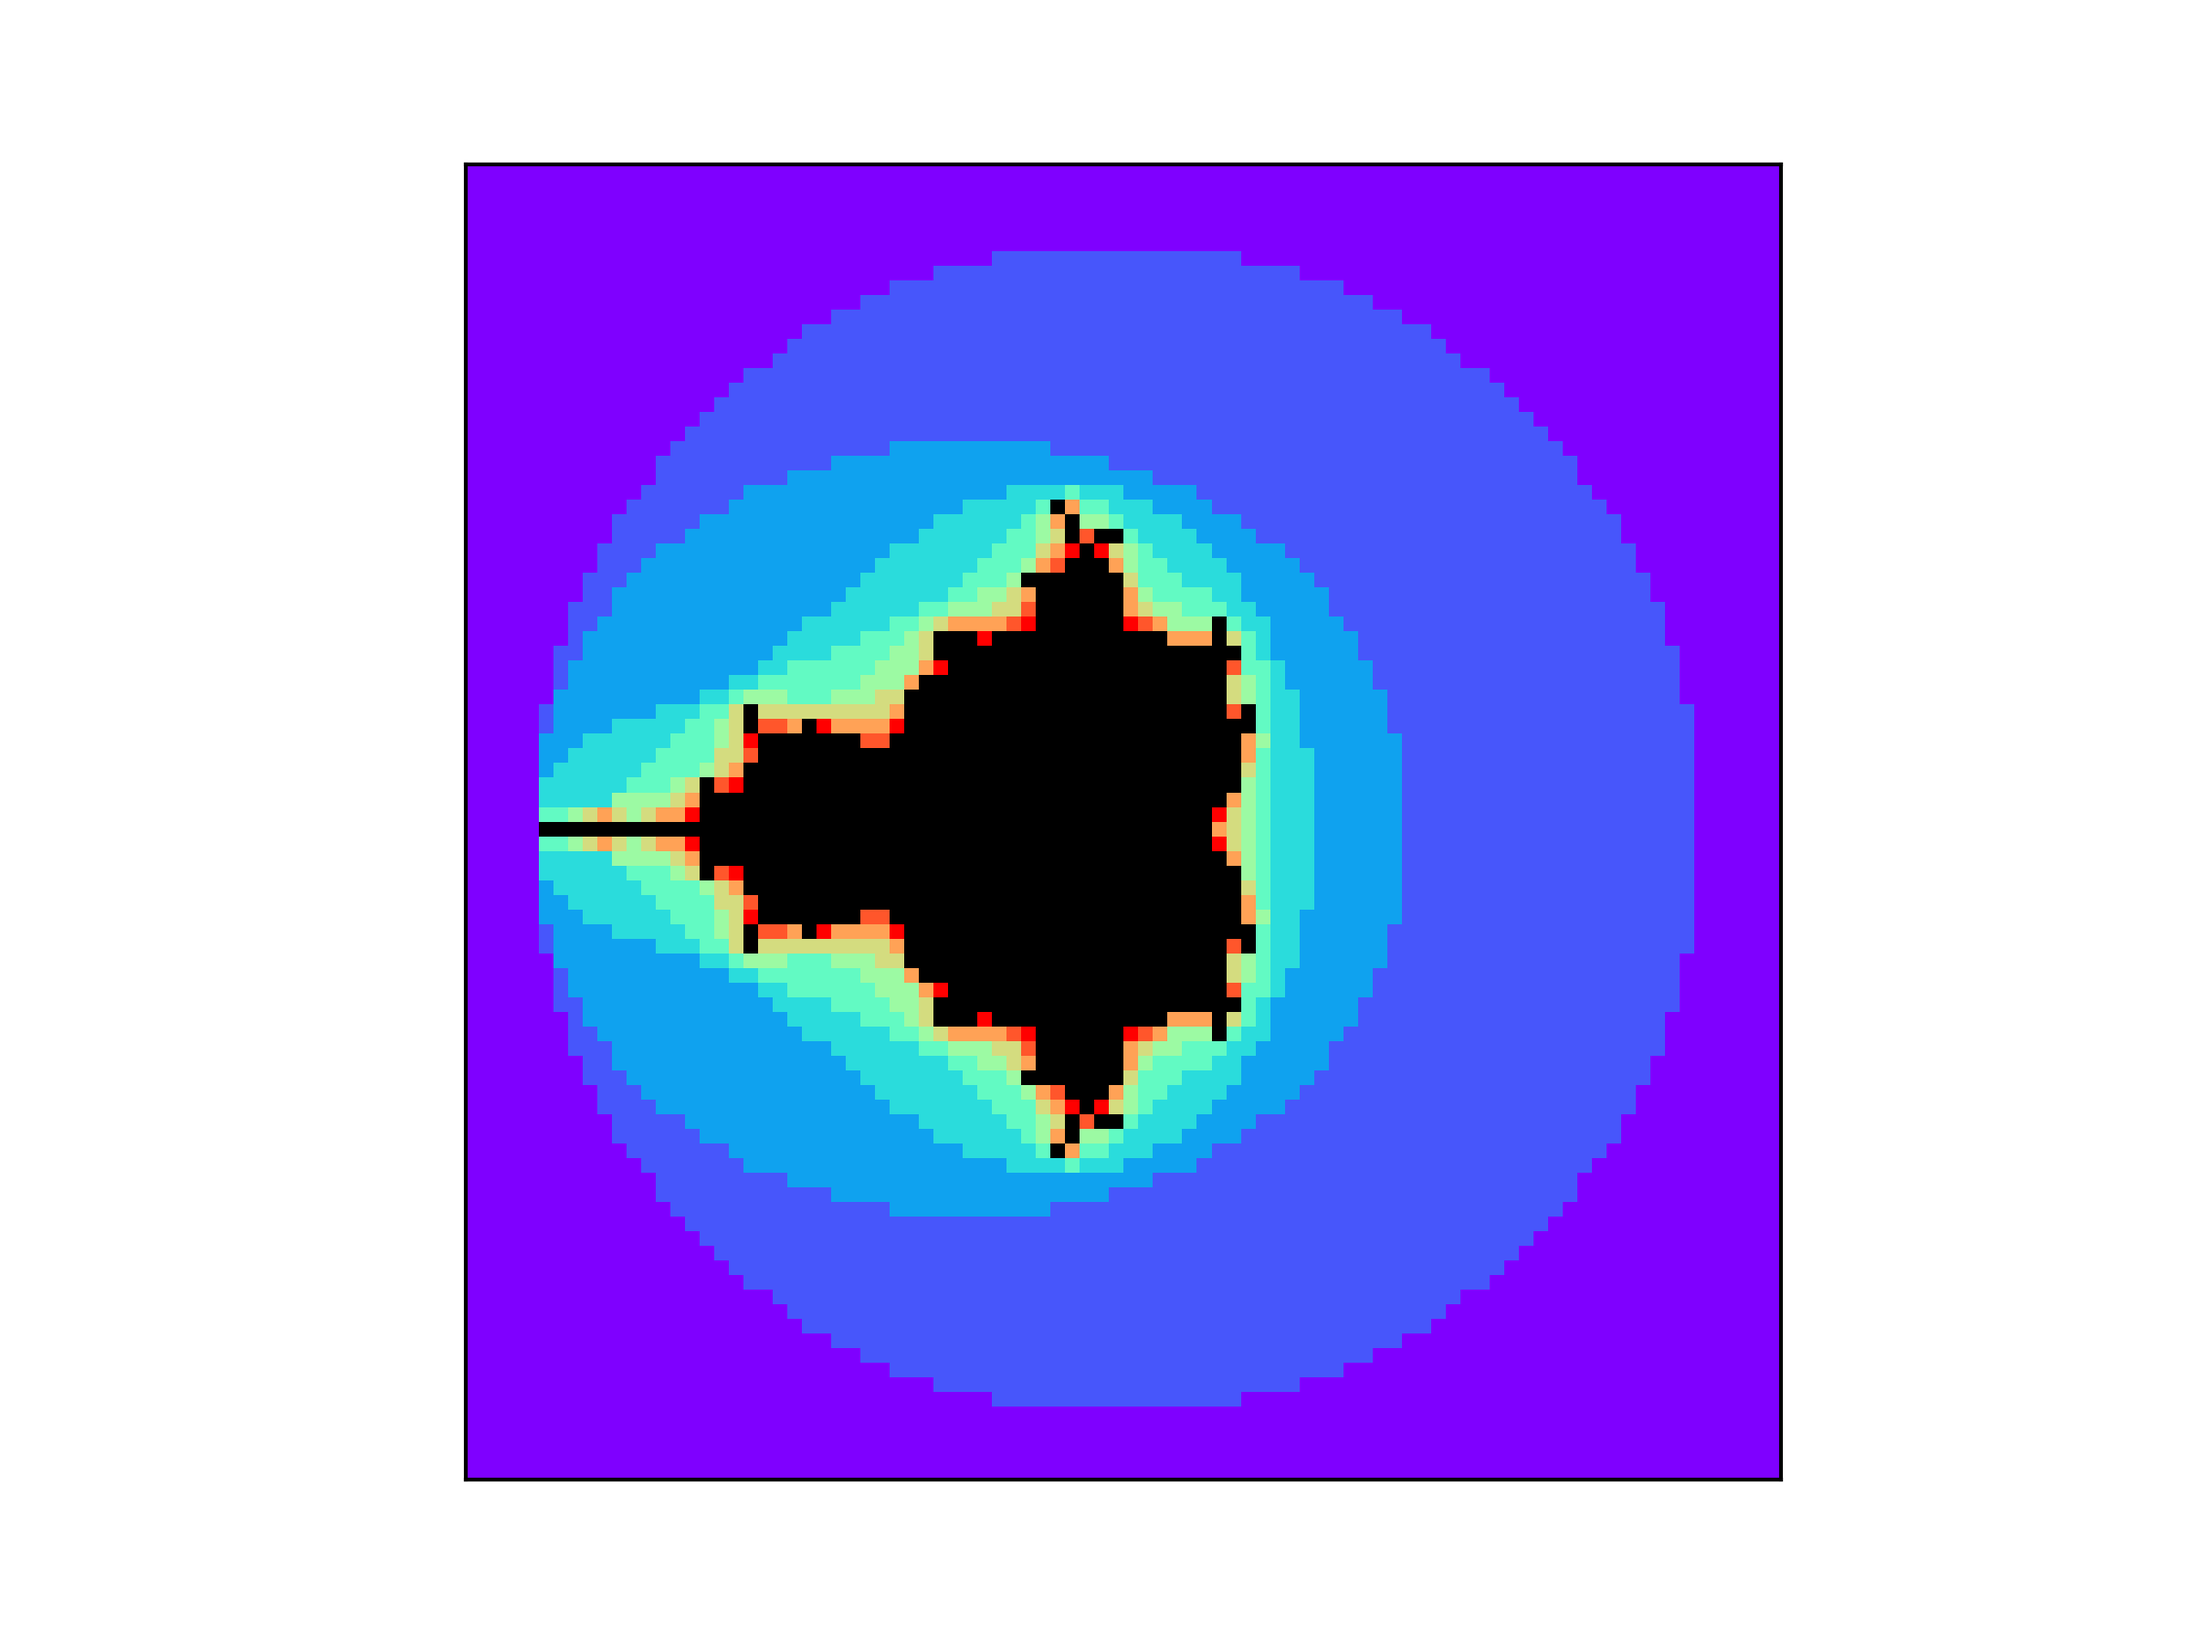
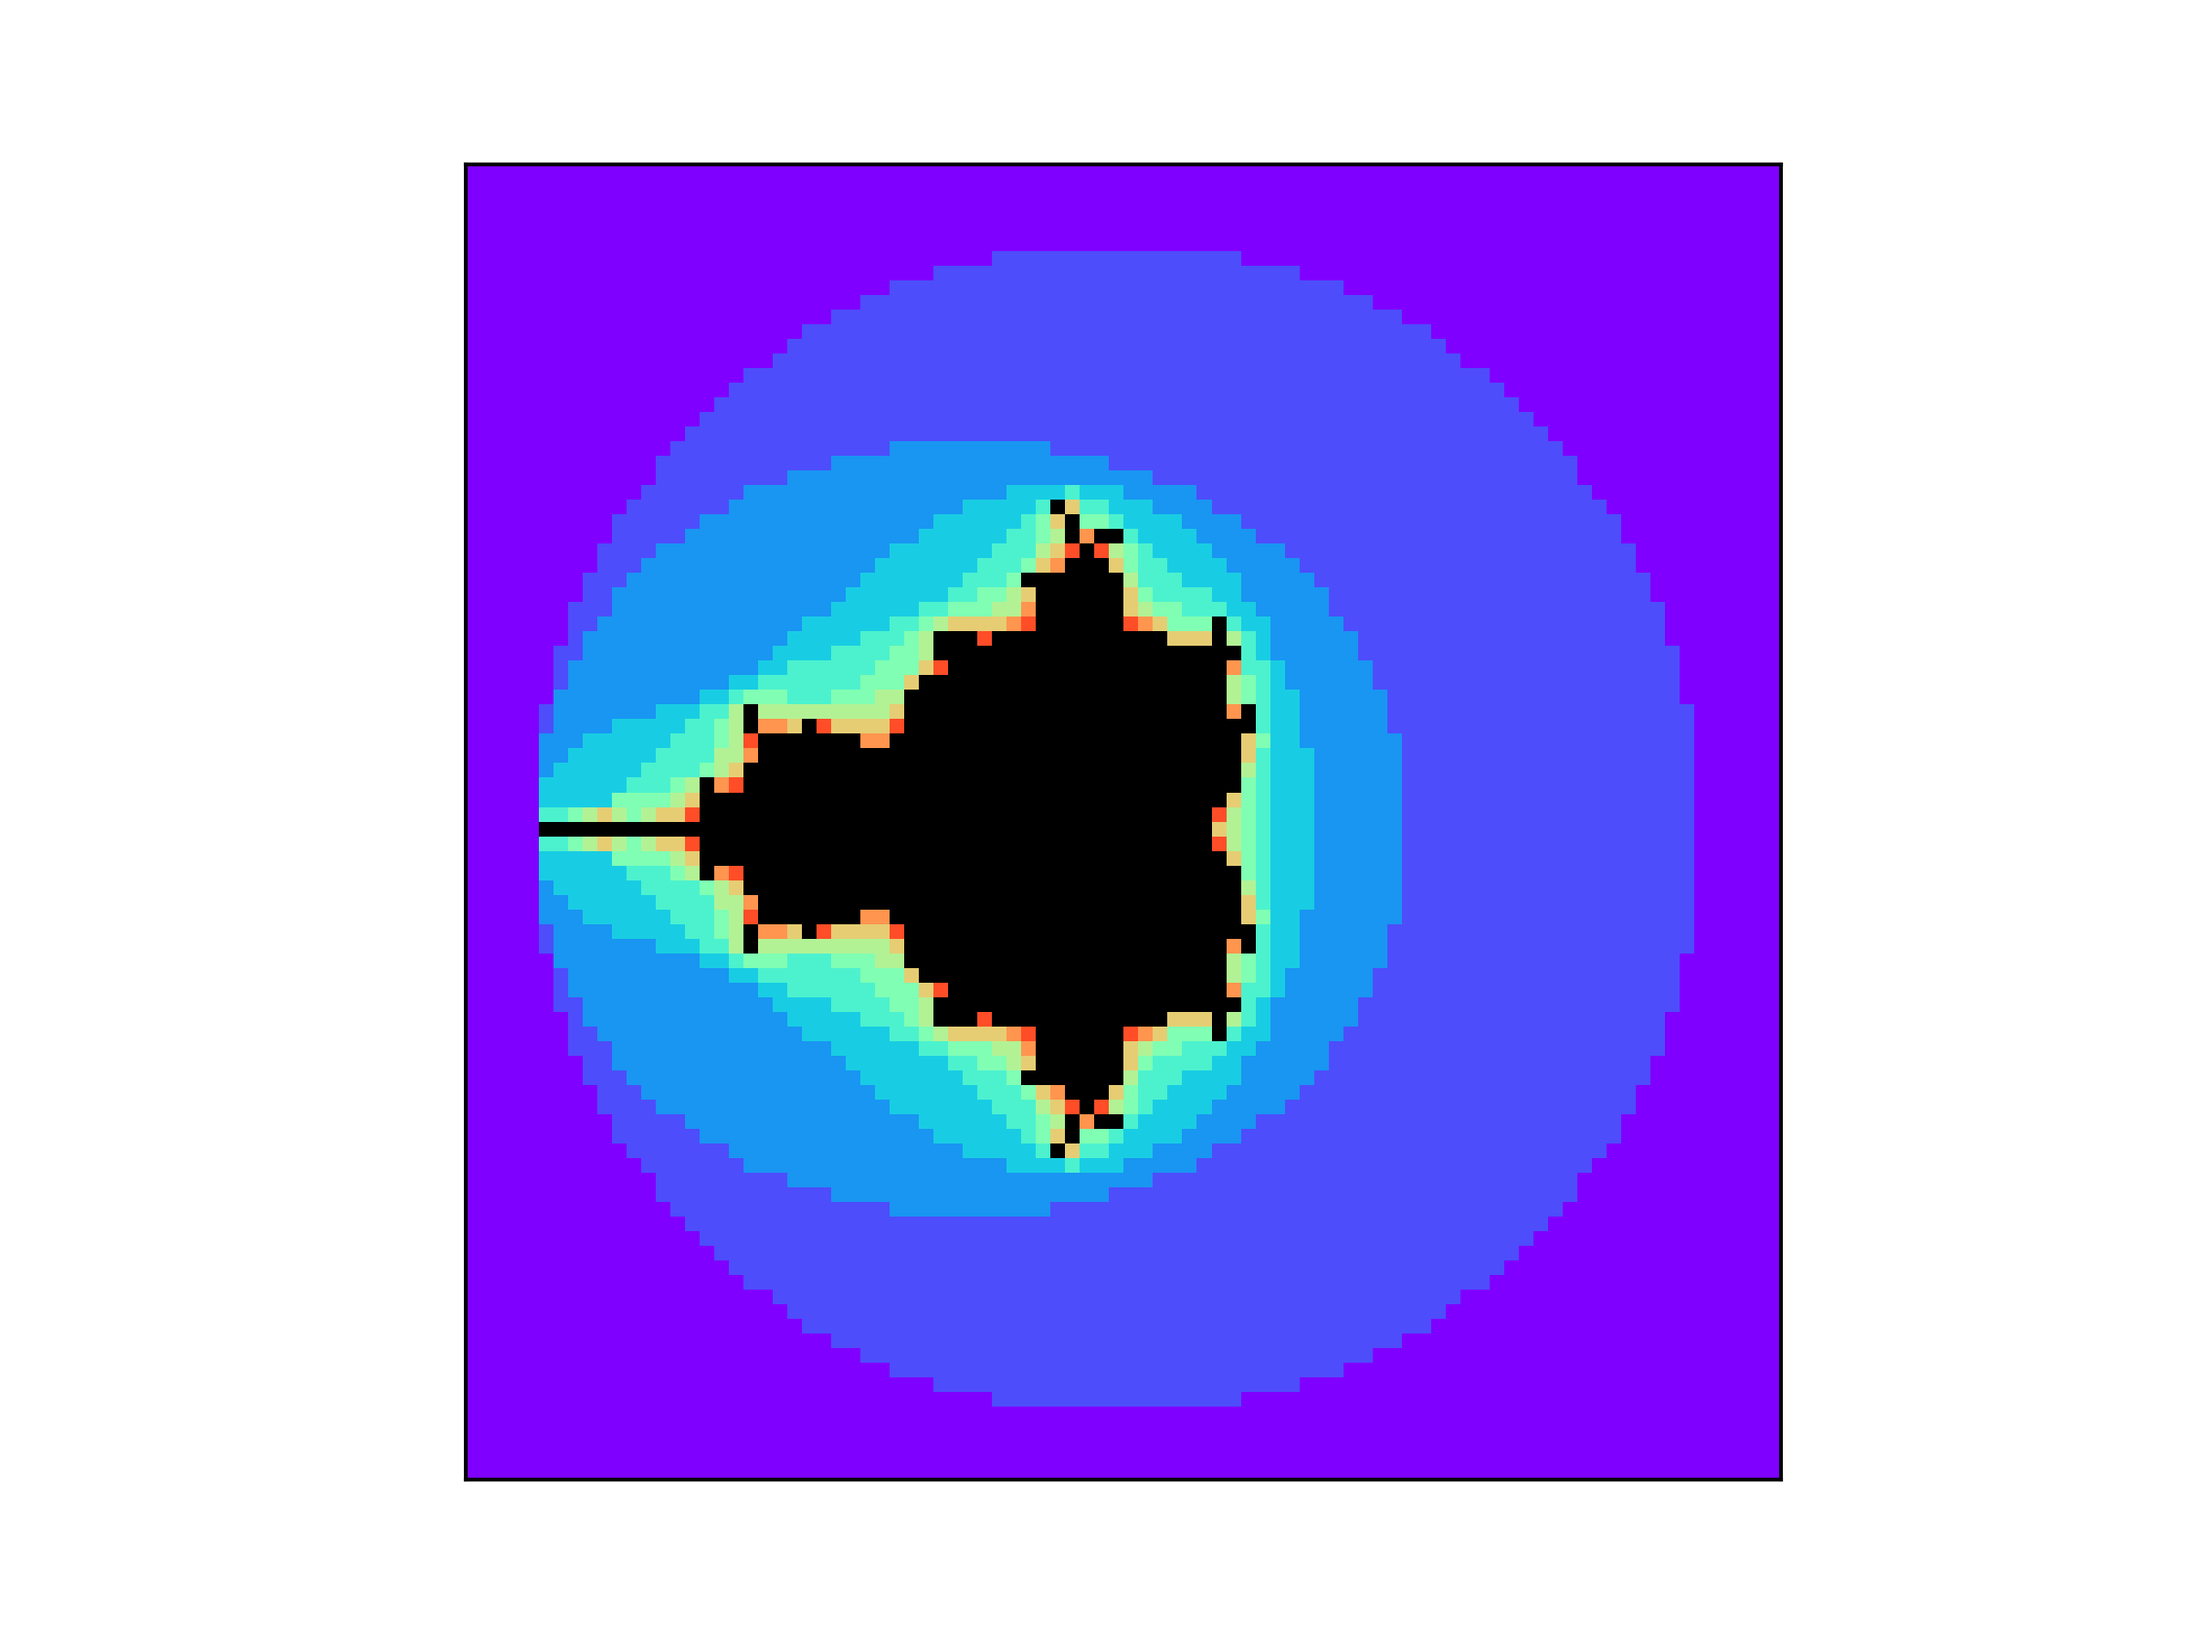
update

Changed region(s): [[0.25, 0.3111, 0.5938, 0.7156]]

diff --git a/Mandelbrot.py b/Mandelbrot.py
@@ -1,12 +1,13 @@
 import numpy as np
 import numpy.linalg as la
 import matplotlib.pyplot as plt
-import itertools as it
-
 
 def C_Mat_gen(x0, y0, N, M, h):
 	'''
 	generates C matrix
+	x0, y0: lower left coordinates
+	N, M: dimensions of C matrix
+	h: step size
 	'''
 	C_mat = np.zeros([N, M, 2])
 	for i in range(N):
@@ -17,6 +18,7 @@ def C_Mat_gen(x0, y0, N, M, h):
 
 def iterate(C_mat):
 	'''
+	implements global iteration
 	C_mat: N*M*2 matrix
 	'''
 	passed = []
@@ -27,19 +29,21 @@ def iterate(C_mat):
 		for i in range(N):
 			for j in range(M):
 				z0 = Z_mat[i,j]
-				if (i,j) in passed:
-					continue
-				else:
-					Z_mat[i,j] = np.array([z0[0]**2-z0[1]**2, 2*z0[0]*z0[1]]) + C_mat[i,j]
-					if la.norm(Z_mat[i,j]) >= 2:
-						passed.append((i,j))
-						current_passed.append((i,j))
+				if (i,j) in passed: continue
+				Z_mat[i,j] = np.array([z0[0]**2-z0[1]**2, 2*z0[0]*z0[1]]) \
+					+ C_mat[i,j]
+				if la.norm(Z_mat[i,j]) >= 2:
+					passed.append((i,j))
+					current_passed.append((i,j))
 		yield current_passed
 
 def draw_map(ax, C_mat, n_max=3):
+	'''
+	draws Mandelbrot set after n_max iterations
+	'''
 	N, M, d = C_mat.shape
 	color_mat = np.zeros([N,M,3])
-	colors = it.cycle(plt.cm.rainbow(np.linspace(0,1,n_max)))
+	colors = iter(plt.cm.rainbow(np.linspace(0,1,n_max+1)))
 	c = next(colors)
 
 	k = 0
@@ -55,15 +59,13 @@ def draw_map(ax, C_mat, n_max=3):
 
 	ax.imshow(color_mat, interpolation="nearest")
 
-
-
 def main():
 	fig, ax = plt.subplots()
 	ax.set_xticks([])
 	ax.set_yticks([])
-	C_mat = C_Mat_gen(-2.2, -2.2, 90, 90, 0.05)
-	draw_map(ax, C_mat, n_max=10)
-	plt.savefig("n_max10.png", dpi=300)
+	C_mat = C_Mat_gen(x0 = -2.2, y0=-2.2, N = 90, M = 90, h = 0.05)
+	draw_map(ax, C_mat, n_max = 10)
+	plt.savefig("n_max10.png", dpi = 300)
 	plt.show()
 
 if __name__ == "__main__":
